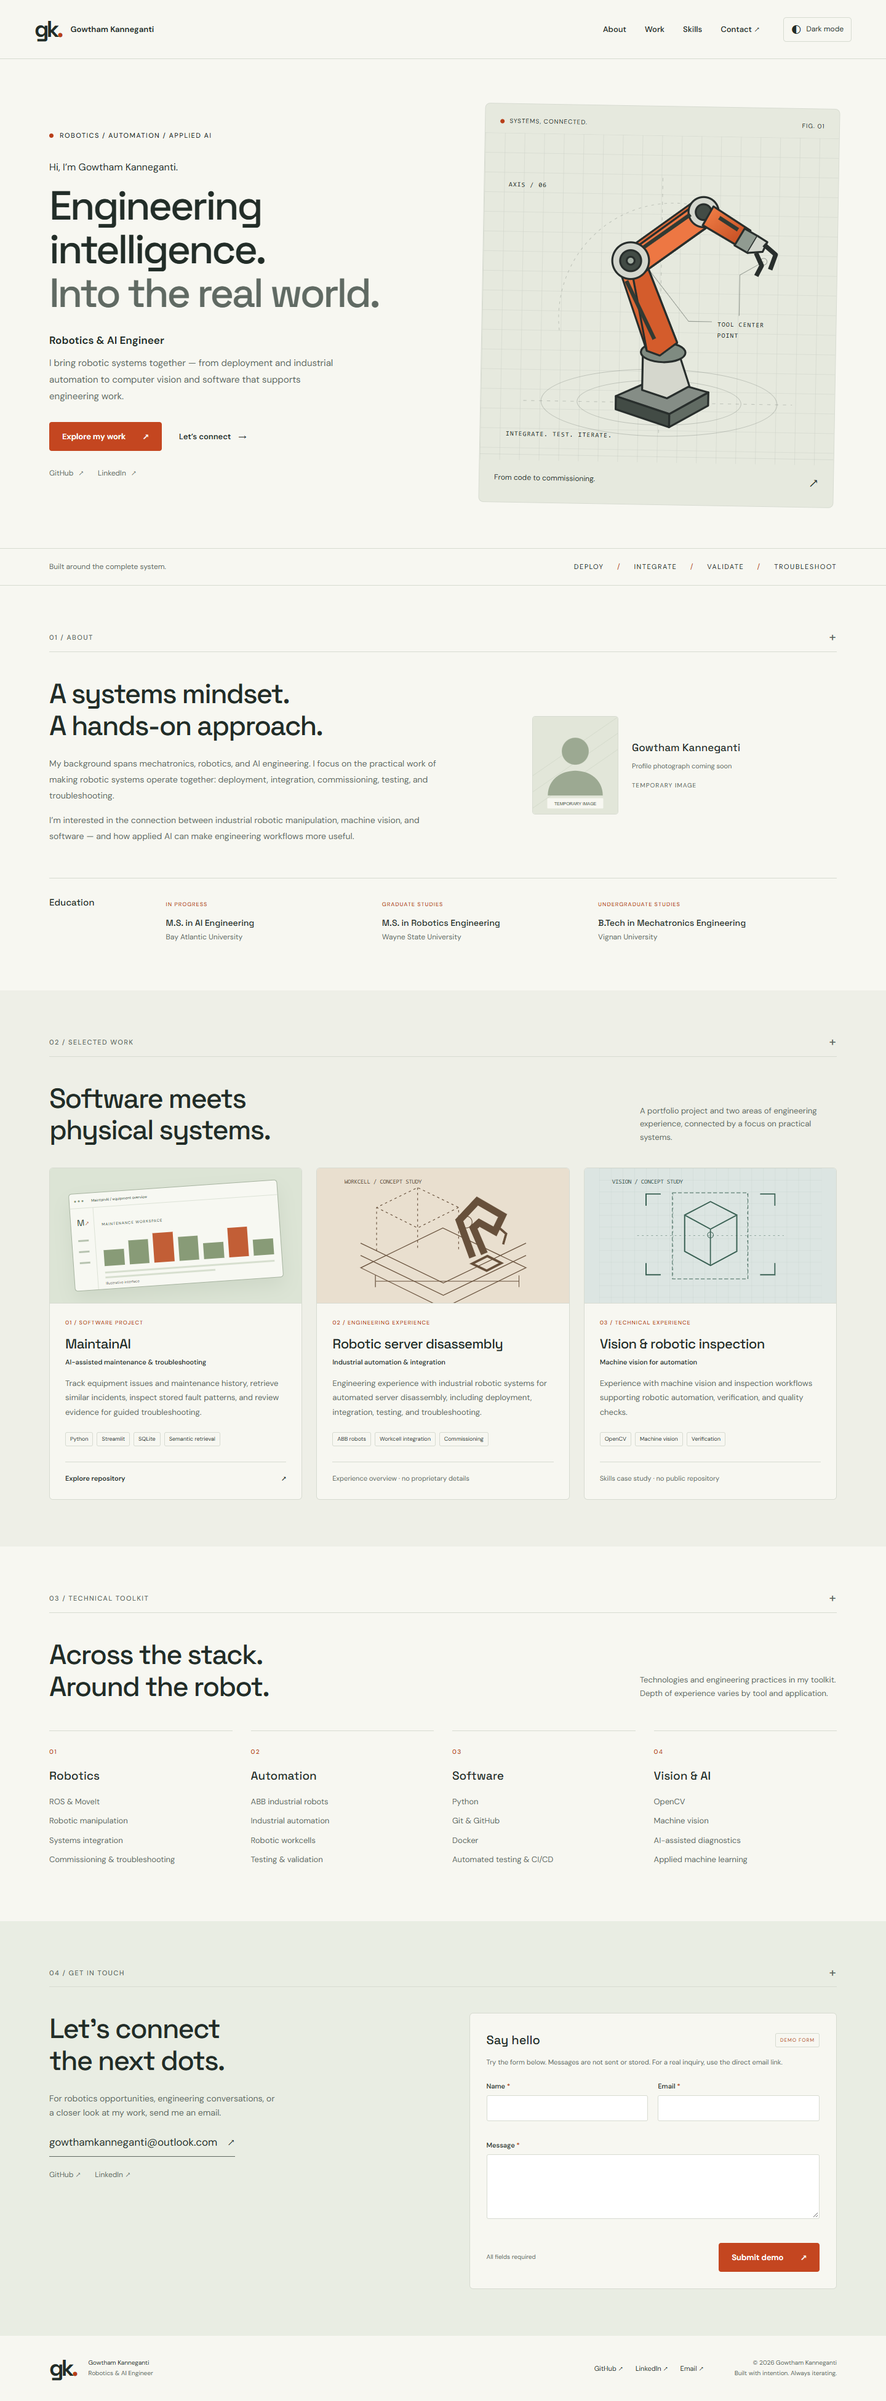
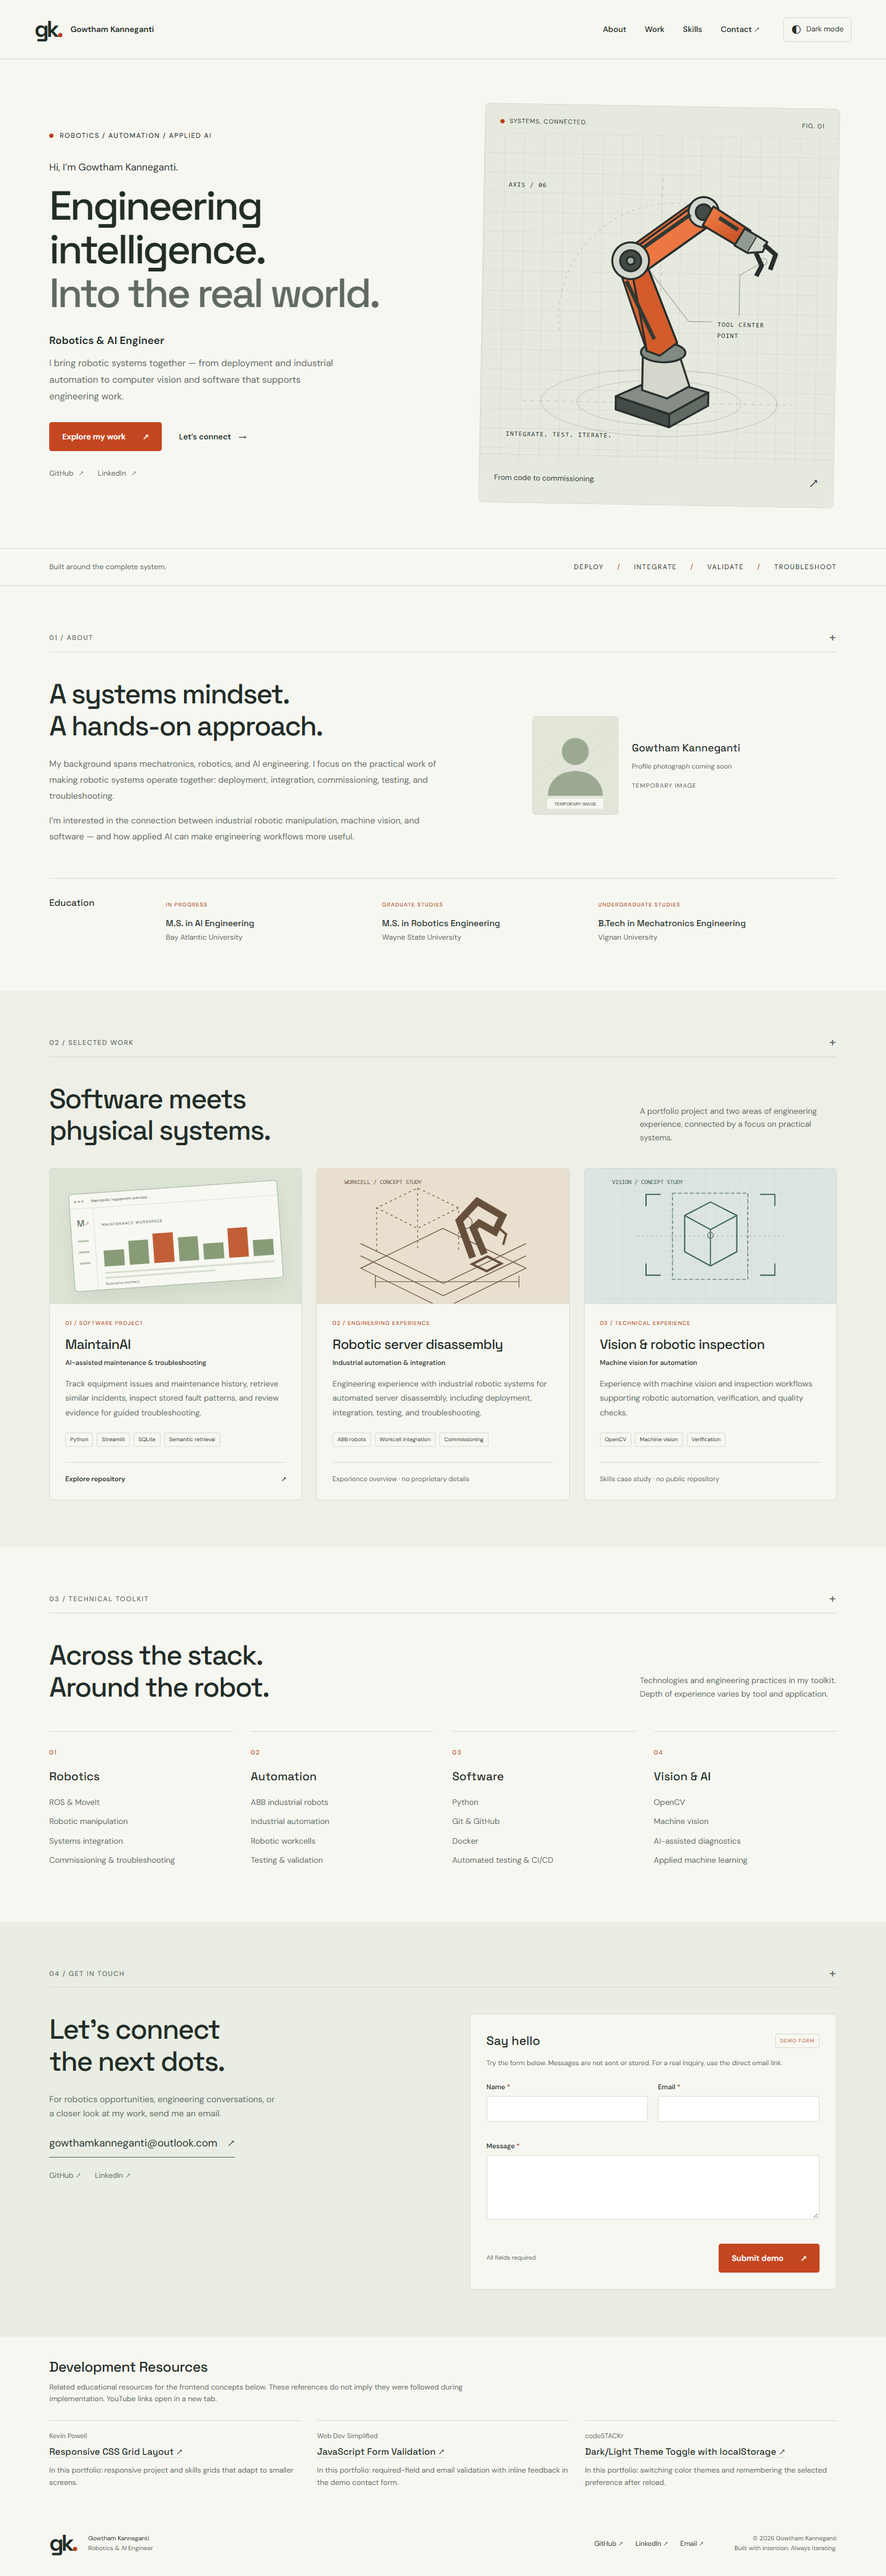
feat: add related development resources near footer

diff --git a/index.html b/index.html
@@ -572,6 +572,67 @@
           </div>
         </div>
       </section>
+      <section
+        class="wrap development-resources"
+        id="development-resources"
+        aria-labelledby="resources-title"
+        aria-describedby="resources-note"
+      >
+        <h2 id="resources-title">Development Resources</h2>
+        <p id="resources-note" class="resources-note">
+          Related educational resources for the frontend concepts below. These
+          references do not imply they were followed during implementation.
+          YouTube links open in a new tab.
+        </p>
+        <ul class="resource-list">
+          <li>
+            <p class="resource-creator">Kevin Powell</p>
+            <h3>
+              <a
+                href="https://www.youtube.com/watch?v=sKFW3wek21Q"
+                target="_blank"
+                rel="noopener noreferrer"
+                >Responsive CSS Grid Layout <span aria-hidden="true">↗</span></a
+              >
+            </h3>
+            <p>
+              In this portfolio: responsive project and skills grids that adapt
+              to smaller screens.
+            </p>
+          </li>
+          <li>
+            <p class="resource-creator">Web Dev Simplified</p>
+            <h3>
+              <a
+                href="https://www.youtube.com/watch?v=In0nB0ABaUk"
+                target="_blank"
+                rel="noopener noreferrer"
+                >JavaScript Form Validation <span aria-hidden="true">↗</span></a
+              >
+            </h3>
+            <p>
+              In this portfolio: required-field and email validation with inline
+              feedback in the demo contact form.
+            </p>
+          </li>
+          <li>
+            <p class="resource-creator">codeSTACKr</p>
+            <h3>
+              <a
+                href="https://www.youtube.com/watch?v=_raOFZAYXD4"
+                target="_blank"
+                rel="noopener noreferrer"
+                >Dark/Light Theme Toggle with localStorage
+                <span aria-hidden="true">↗</span></a
+              >
+            </h3>
+            <p>
+              In this portfolio: switching color themes and remembering the
+              selected preference after reload.
+            </p>
+          </li>
+        </ul>
+      </section>
     </main>
     <footer class="wrap site-footer">
       <div>

diff --git a/styles.css b/styles.css
@@ -735,6 +735,57 @@ form {
   border-left: 3px solid var(--accent);
   background: var(--soft);
 }
+.development-resources {
+  padding-block: 36px;
+}
+.development-resources h2 {
+  font-size: 23px;
+  letter-spacing: -0.5px;
+  margin-bottom: 10px;
+}
+.resources-note {
+  max-width: 760px;
+  color: var(--muted);
+  font-size: 12px;
+  margin-bottom: 24px;
+}
+.resource-list {
+  display: grid;
+  grid-template-columns: repeat(3, minmax(0, 1fr));
+  gap: 26px;
+  list-style: none;
+  padding: 0;
+  margin: 0;
+}
+.resource-list li {
+  border-top: 1px solid var(--line);
+  padding-top: 15px;
+  min-width: 0;
+}
+.resource-list .resource-creator {
+  color: var(--muted);
+  font-size: 11px;
+  margin-bottom: 6px;
+}
+.resource-list h3 {
+  font-size: 15px;
+  line-height: 1.5;
+  margin-bottom: 9px;
+}
+.resource-list a {
+  text-decoration: underline;
+  text-decoration-color: var(--line);
+  text-underline-offset: 4px;
+}
+.resource-list a:hover {
+  color: var(--accent);
+  text-decoration-color: currentColor;
+}
+.resource-list li > p:last-child {
+  color: var(--muted);
+  font-size: 12px;
+  margin-bottom: 0;
+}
 .site-footer {
   display: flex;
   align-items: center;
@@ -994,6 +1045,10 @@ form {
     gap: 0;
   }
   .site-footer {
+    gap: 22px;
+  }
+  .resource-list {
+    grid-template-columns: 1fr;
     gap: 22px;
   }
   .site-footer > div:first-child {

diff --git a/docs/DEVELOPMENT_PROCESS.md b/docs/DEVELOPMENT_PROCESS.md
@@ -130,6 +130,16 @@ The following are engineering takeaways from the documented workflow, rather tha
 
 Future work includes replacing the temporary portrait, completing the physical-device and additional browser/accessibility checks listed in the [test plan](TEST_PLAN.md), and expanding case studies with accurate, non-confidential details. Further source review can continue alongside those improvements. These are remaining actions, not completed contributions.
 
+### Related Learning Resources
+
+The following educational videos relate to frontend concepts demonstrated in this portfolio. They are listed as related learning resources, not as a record of tutorials I necessarily followed during implementation. Their inclusion does not change the contribution and AI-assistance account above. The same references appear in the small Development Resources section near the website footer.
+
+| Video                                                                                    | Creator            | Related concept demonstrated in this project                                                                                                |
+| ---------------------------------------------------------------------------------------- | ------------------ | ------------------------------------------------------------------------------------------------------------------------------------------- |
+| [Responsive CSS Grid Layout](https://www.youtube.com/watch?v=sKFW3wek21Q)                | Kevin Powell       | CSS Grid and responsive rules adapt the project and skills layouts to smaller screens in `styles.css`.                                      |
+| [JavaScript Form Validation](https://www.youtube.com/watch?v=In0nB0ABaUk)                | Web Dev Simplified | `utils.js` checks required fields and email format; `script.js` displays inline feedback and a demo confirmation without sending a message. |
+| [Dark/Light Theme Toggle with localStorage](https://www.youtube.com/watch?v=_raOFZAYXD4) | codeSTACKr         | Theme tokens in `styles.css` and interactions in `script.js` switch appearance and save the selected preference in localStorage.            |
+
 ## I. AI Assistance Disclosure
 
 This is an individual, human-directed, AI-assisted project. I supplied project direction, requirements, professional content, and confirmed personal verification. ChatGPT helped organize the requirements into a development prompt. OpenAI Codex Desktop generated the application code, tests, technical documentation, and academic deliverables and performed authorized automated verification and deployment operations in the local development workflow.
